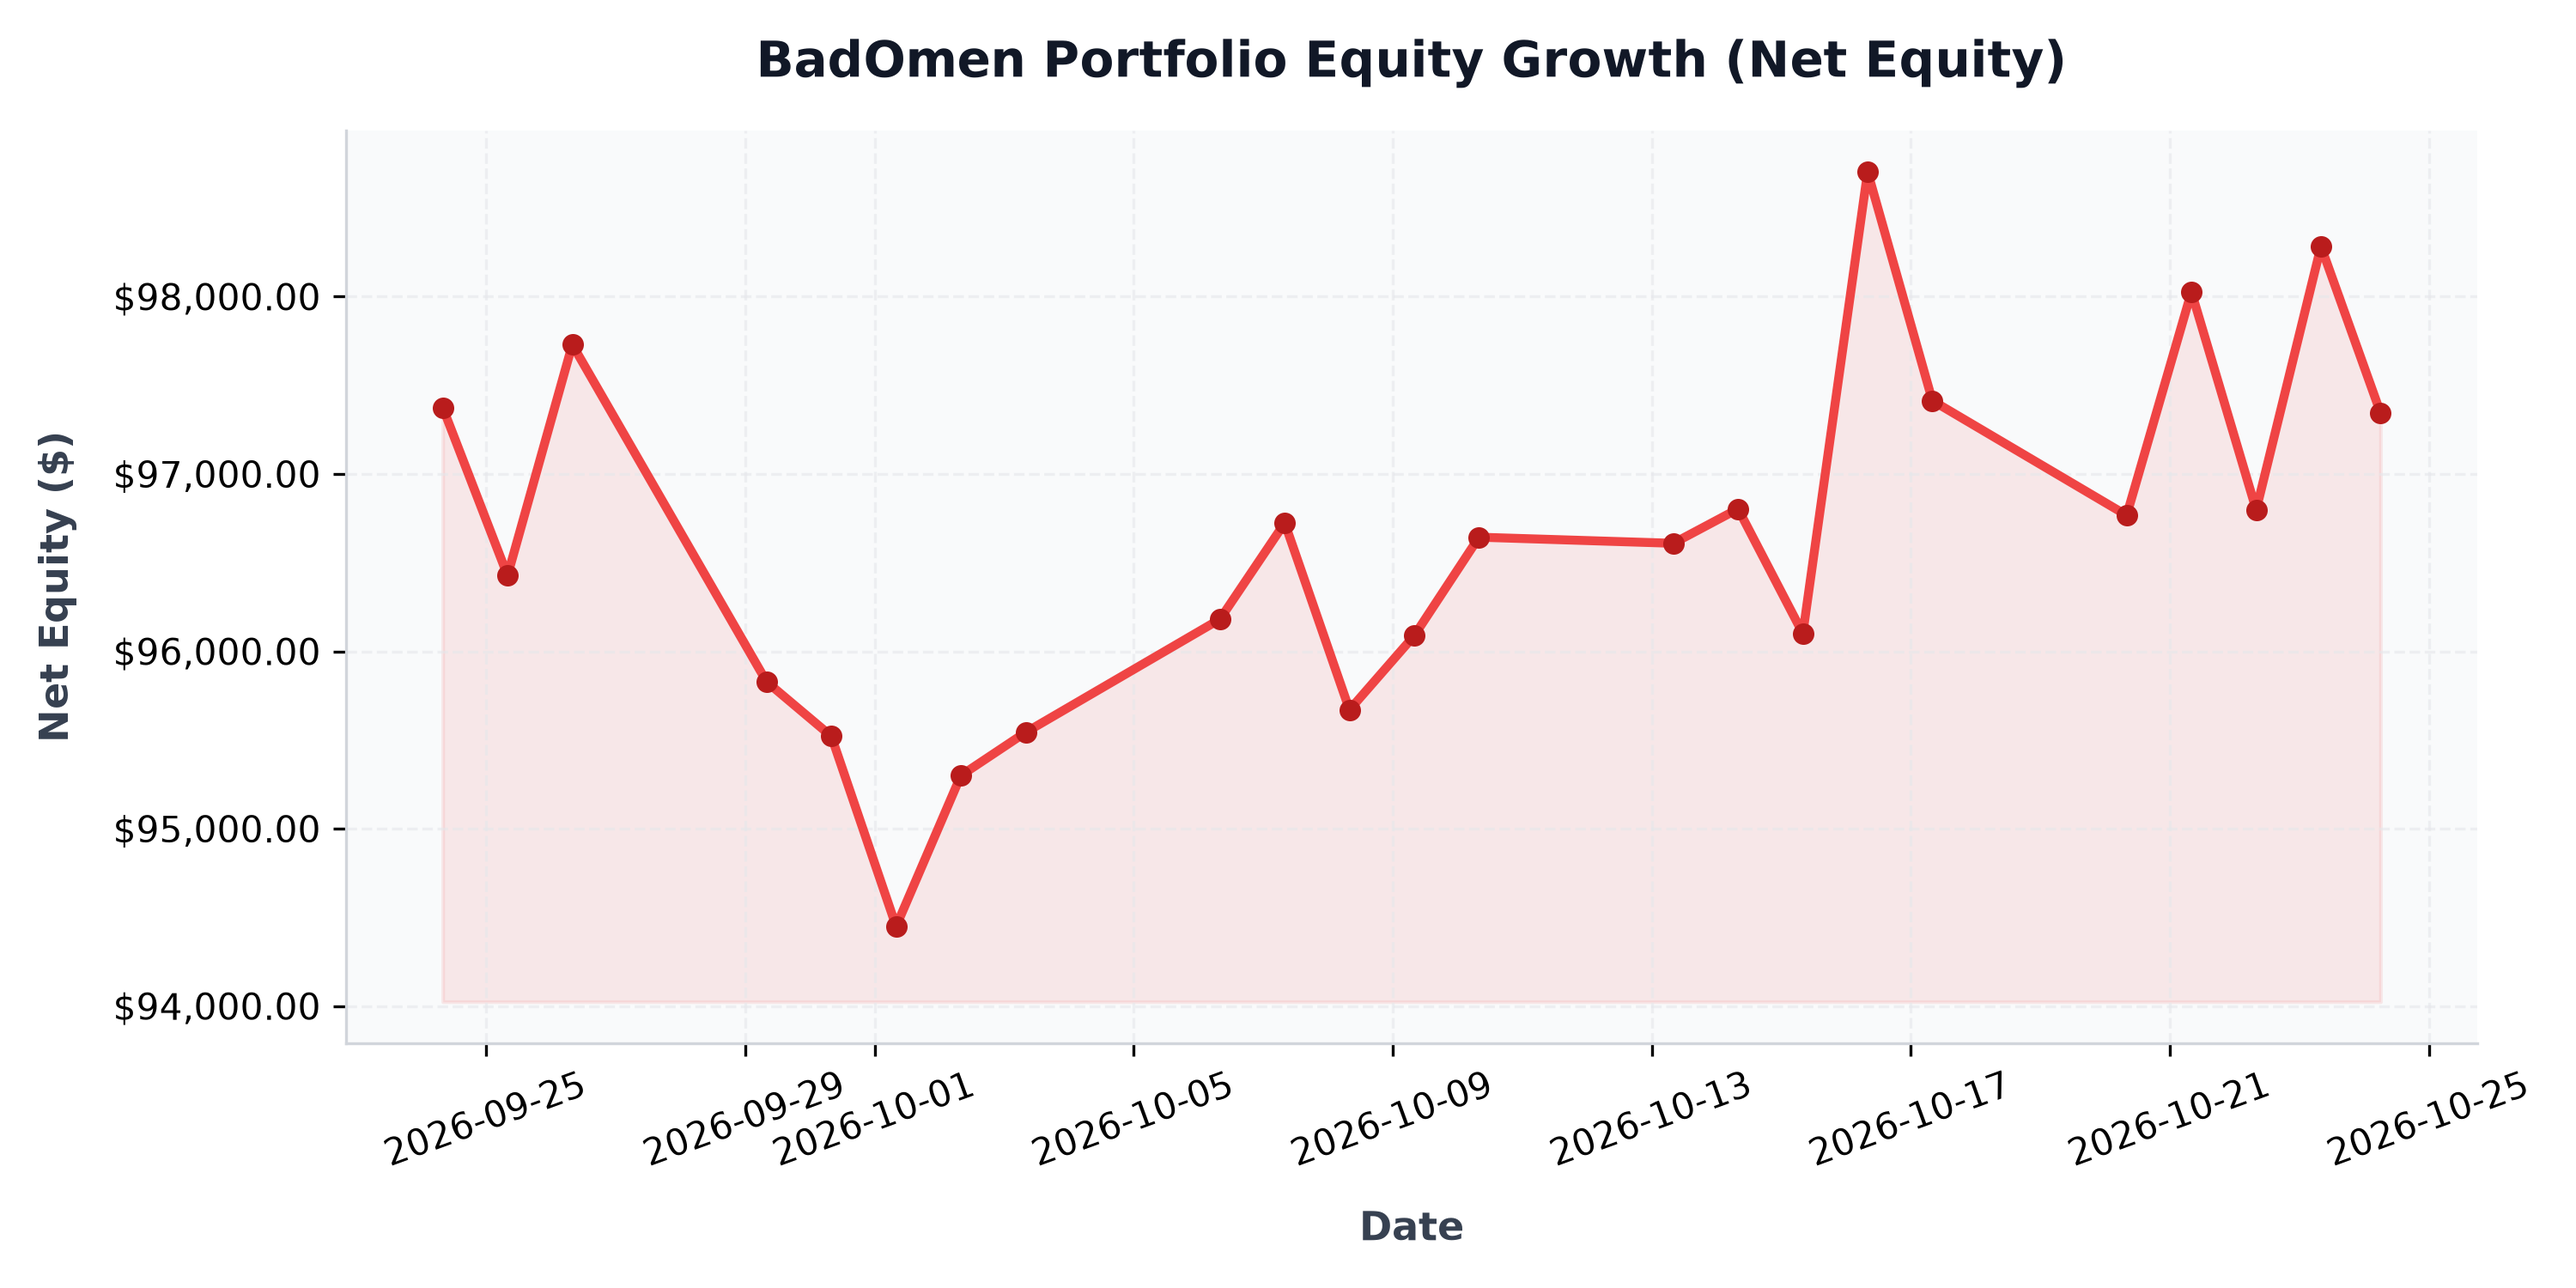
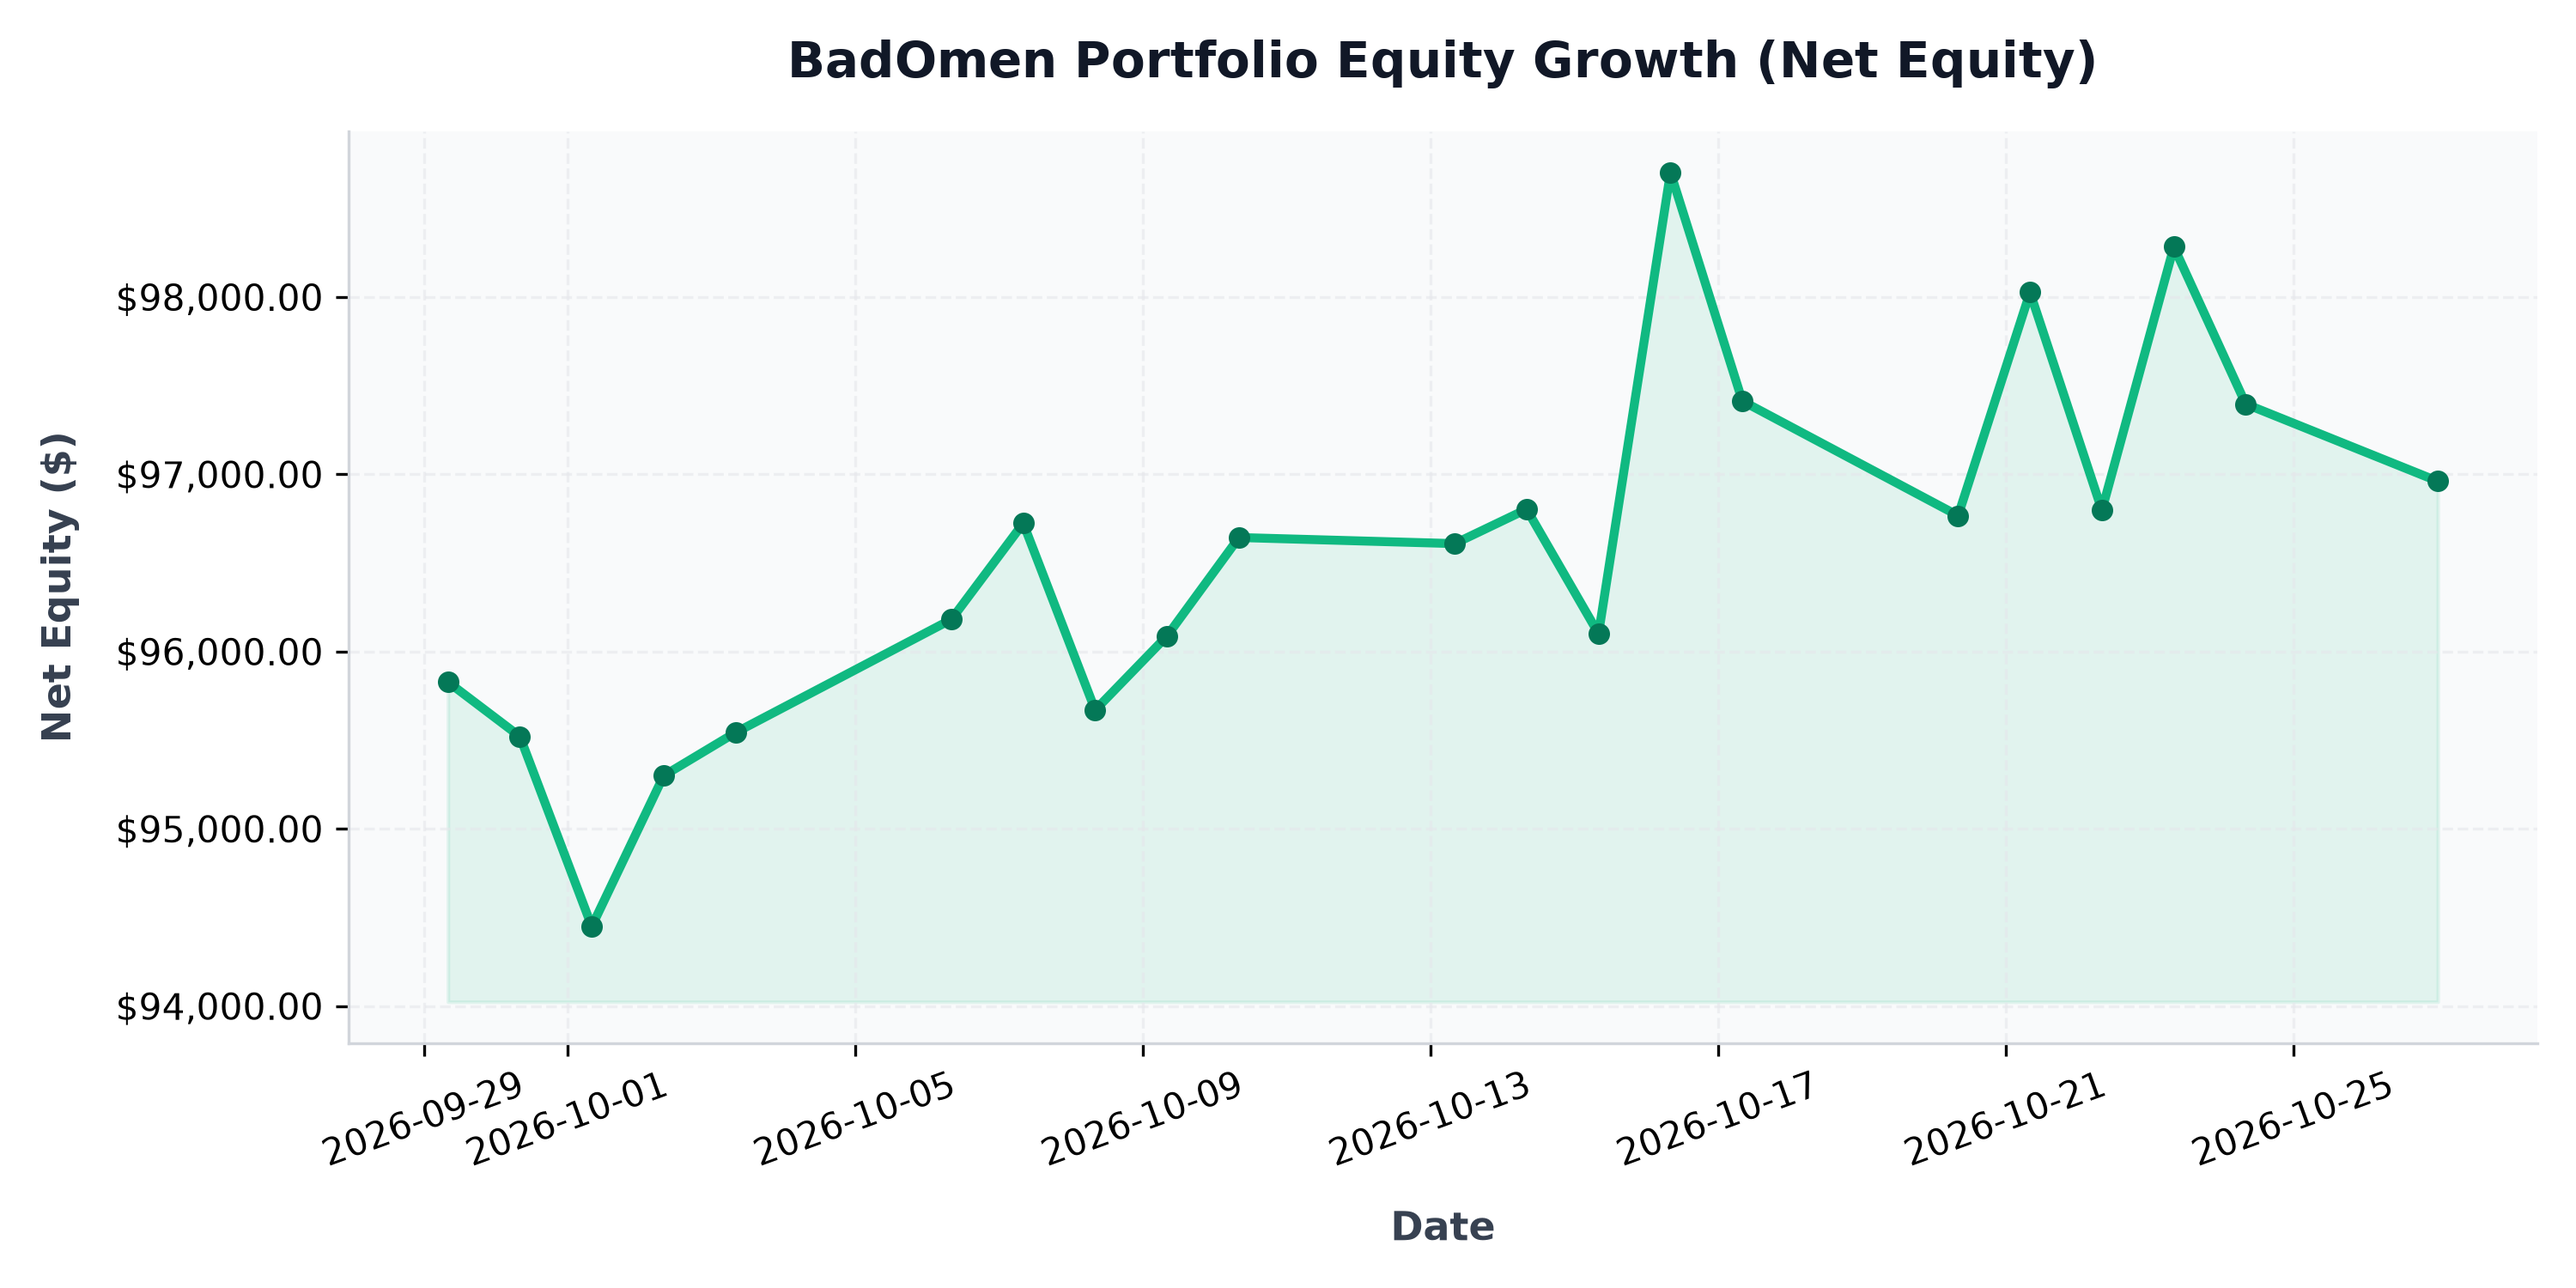
auto: daily portfolio status update - 2026-10-27 00:08:53

diff --git a/src/content/posts/portfolio-performance.md b/src/content/posts/portfolio-performance.md
@@ -1,6 +1,6 @@
 ---
 title: "BadOmen Algorithmic Portfolio Performance & PnL Report"
-pubDatetime: 2026-10-24T06:05:13.093079+08:00
+pubDatetime: 2026-10-27T00:08:12.007667+08:00
 description: "Live performance metrics, active holdings, and historic equity curve for the BadOmen automated paper trading portfolio."
 featured: true
 draft: false
@@ -16,11 +16,11 @@ Welcome to the live performance dashboard for **BadOmen**, our automated algorit
 ## 📊 Portfolio Summary
 | Performance Metric | Value | description |
 | :--- | :--- | :--- |
-| **Net Portfolio Equity** | **$97,344.70** | Total current liquidation value of cash and stock holdings |
-| **Total Unrealized P&L** | 🔴 **$-3,749.57** (-3.71%) | Total return of current open holdings |
-| **Cash Balance** | $24,266.50 | Idle reserve currency available for limit orders |
-| **Buying Power** | $301,684.95 | Margin-backed buying power for entry allocations |
-| **Report Updated** | `2026-10-24 06:05:13 (SGT)` | Timestamp of daily execution and sync run |
+| **Net Portfolio Equity** | **$96,960.97** | Total current liquidation value of cash and stock holdings |
+| **Total Unrealized P&L** | 🔴 **$-4,156.32** (-4.11%) | Total return of current open holdings |
+| **Cash Balance** | $24,269.00 | Idle reserve currency available for limit orders |
+| **Buying Power** | $300,613.52 | Margin-backed buying power for entry allocations |
+| **Report Updated** | `2026-10-27 00:08:12 (SGT)` | Timestamp of daily execution and sync run |
 
 ## 📈 Net Equity Growth Curve
 The chart below illustrates the historical performance of the account starting from our baseline capital funding of $100,000.00.
@@ -35,35 +35,35 @@ The chart below illustrates the exposure of our currently held active positions 
 ## 💼 Current Position Holdings
 | Ticker | Industry | Shares Owned | Average Entry Cost | Current Price | Unrealized P&L | Return (%) |
 | :--- | :--- | :--- | :--- | :--- | :--- | :--- |
-| **AN** | Auto & Truck Dealerships | 5 | $188.51 | $161.05 | 🔴 $-137.29 | -14.57% |
-| **AVGO** | Semiconductors | 1 | $385.71 | $322.67 | 🔴 $-63.04 | -16.34% |
-| **BIRK** | Footwear & Accessories | 407 | $37.32 | $32.57 | 🔴 $-1,932.32 | -12.72% |
-| **BLBD** | Farm & Heavy Construction Machinery | 231 | $65.52 | $57.73 | 🔴 $-1,798.56 | -11.88% |
-| **BVN** | Other Precious Metals & Mining | 32 | $31.88 | $28.32 | 🔴 $-113.76 | -11.15% |
-| **CELH** | Beverages - Non-Alcoholic | 33 | $29.71 | $28.47 | 🔴 $-41.01 | -4.18% |
-| **CPRI** | Luxury Goods | 1042 | $14.55 | $15.79 | 🟢 +$1,290.20 | +8.51% |
-| **DUOL** | Software - Application | 14 | $131.04 | $143.04 | 🟢 +$167.94 | +9.15% |
-| **FIS** | Information Technology Services | 23 | $41.79 | $37.53 | 🔴 $-97.98 | -10.19% |
-| **GDDY** | Software - Infrastructure | 6 | $76.21 | $112.79 | 🟢 +$219.48 | +48.00% |
-| **GDS** | Information Technology Services | 30 | $32.77 | $22.50 | 🔴 $-308.10 | -31.34% |
-| **GGAL** | Banks - Regional | 17 | $56.04 | $37.91 | 🔴 $-308.20 | -32.35% |
-| **GOOGL** | Internet Content & Information | 3 | $319.44 | $321.23 | 🟢 +$5.37 | +0.56% |
-| **GPI** | Auto & Truck Dealerships | 3 | $316.15 | $244.97 | 🔴 $-213.54 | -22.52% |
-| **HUBS** | Software - Application | 8 | $221.18 | $270.39 | 🟢 +$393.67 | +22.25% |
-| **ITRI** | Scientific & Technical Instruments | 12 | $81.80 | $88.00 | 🟢 +$74.40 | +7.58% |
-| **KBR** | Engineering & Construction | 27 | $36.23 | $39.19 | 🟢 +$79.84 | +8.16% |
-| **NESR** | Oil & Gas Equipment & Services | 34 | $28.74 | $20.77 | 🔴 $-270.98 | -27.73% |
-| **NU** | Banks - Regional | 57 | $11.60 | $15.23 | 🟢 +$206.99 | +31.31% |
-| **ON** | Semiconductors | 10 | $90.45 | $72.25 | 🔴 $-182.05 | -20.13% |
-| **ORCL** | Software - Infrastructure | 5 | $181.95 | $126.30 | 🔴 $-278.25 | -30.59% |
-| **PATH** | Software - Infrastructure | 38 | $10.25 | $14.10 | 🟢 +$146.30 | +37.56% |
-| **PYPL** | Credit Services | 17 | $56.05 | $56.90 | 🟢 +$14.43 | +1.51% |
-| **QCOM** | Semiconductors | 15 | $193.68 | $175.55 | 🔴 $-272.02 | -9.36% |
-| **SMCI** | Computer Hardware | 22 | $29.25 | $32.97 | 🟢 +$81.84 | +12.72% |
-| **SRE** | Utilities - Diversified | 57 | $84.75 | $84.06 | 🔴 $-39.47 | -0.82% |
-| **T** | Telecom Services | 47 | $20.85 | $20.96 | 🟢 +$5.17 | +0.53% |
-| **WEN** | Restaurants | 257 | $8.02 | $6.21 | 🔴 $-465.95 | -22.60% |
-| **ZG** | Internet Content & Information | 31 | $31.35 | $34.17 | 🟢 +$87.32 | +8.98% |
+| **AN** | Auto & Truck Dealerships | 5 | $188.51 | $161.26 | 🔴 $-136.22 | -14.45% |
+| **AVGO** | Semiconductors | 1 | $385.71 | $330.05 | 🔴 $-55.66 | -14.43% |
+| **BIRK** | Footwear & Accessories | 407 | $37.32 | $32.33 | 🔴 $-2,030.00 | -13.37% |
+| **BLBD** | Farm & Heavy Construction Machinery | 231 | $65.52 | $58.16 | 🔴 $-1,700.38 | -11.24% |
+| **BVN** | Other Precious Metals & Mining | 32 | $31.88 | $28.41 | 🔴 $-110.88 | -10.87% |
+| **CELH** | Beverages - Non-Alcoholic | 33 | $29.71 | $27.84 | 🔴 $-61.63 | -6.29% |
+| **CPRI** | Luxury Goods | 1042 | $14.55 | $15.77 | 🟢 +$1,269.36 | +8.37% |
+| **DUOL** | Software - Application | 14 | $131.04 | $135.78 | 🟢 +$66.30 | +3.61% |
+| **FIS** | Information Technology Services | 23 | $41.79 | $36.83 | 🔴 $-114.19 | -11.88% |
+| **GDDY** | Software - Infrastructure | 6 | $76.21 | $109.78 | 🟢 +$201.45 | +44.06% |
+| **GDS** | Information Technology Services | 30 | $32.77 | $23.18 | 🔴 $-287.85 | -29.28% |
+| **GGAL** | Banks - Regional | 17 | $56.04 | $34.77 | 🔴 $-361.67 | -37.96% |
+| **GOOGL** | Internet Content & Information | 3 | $319.44 | $319.71 | 🟢 +$0.81 | +0.08% |
+| **GPI** | Auto & Truck Dealerships | 3 | $316.15 | $248.79 | 🔴 $-202.08 | -21.31% |
+| **HUBS** | Software - Application | 8 | $221.18 | $260.51 | 🟢 +$314.63 | +17.78% |
+| **ITRI** | Scientific & Technical Instruments | 12 | $81.80 | $87.43 | 🟢 +$67.56 | +6.88% |
+| **KBR** | Engineering & Construction | 27 | $36.23 | $39.97 | 🟢 +$100.90 | +10.31% |
+| **NESR** | Oil & Gas Equipment & Services | 34 | $28.74 | $20.53 | 🔴 $-279.14 | -28.57% |
+| **NU** | Banks - Regional | 57 | $11.60 | $12.27 | 🟢 +$37.99 | +5.75% |
+| **ON** | Semiconductors | 10 | $90.45 | $73.65 | 🔴 $-168.05 | -18.58% |
+| **ORCL** | Software - Infrastructure | 5 | $181.95 | $126.54 | 🔴 $-277.05 | -30.45% |
+| **PATH** | Software - Infrastructure | 38 | $10.25 | $14.09 | 🟢 +$145.73 | +37.41% |
+| **PYPL** | Credit Services | 17 | $56.05 | $54.95 | 🔴 $-18.70 | -1.96% |
+| **QCOM** | Semiconductors | 15 | $193.68 | $179.22 | 🔴 $-216.97 | -7.47% |
+| **SMCI** | Computer Hardware | 22 | $29.25 | $32.98 | 🟢 +$82.06 | +12.75% |
+| **SRE** | Utilities - Diversified | 57 | $84.75 | $84.47 | 🔴 $-16.10 | -0.33% |
+| **T** | Telecom Services | 47 | $20.85 | $21.05 | 🟢 +$9.40 | +0.96% |
+| **WEN** | Restaurants | 257 | $8.02 | $6.18 | 🔴 $-472.55 | -22.92% |
+| **ZG** | Internet Content & Information | 31 | $31.35 | $33.18 | 🟢 +$56.63 | +5.83% |
 
 ## 🔴 Recent Realized Trades
 | Ticker | Shares Sold | Entry Price | Exit Price | Strategy Trigger | Realized Return | Exit Date |
